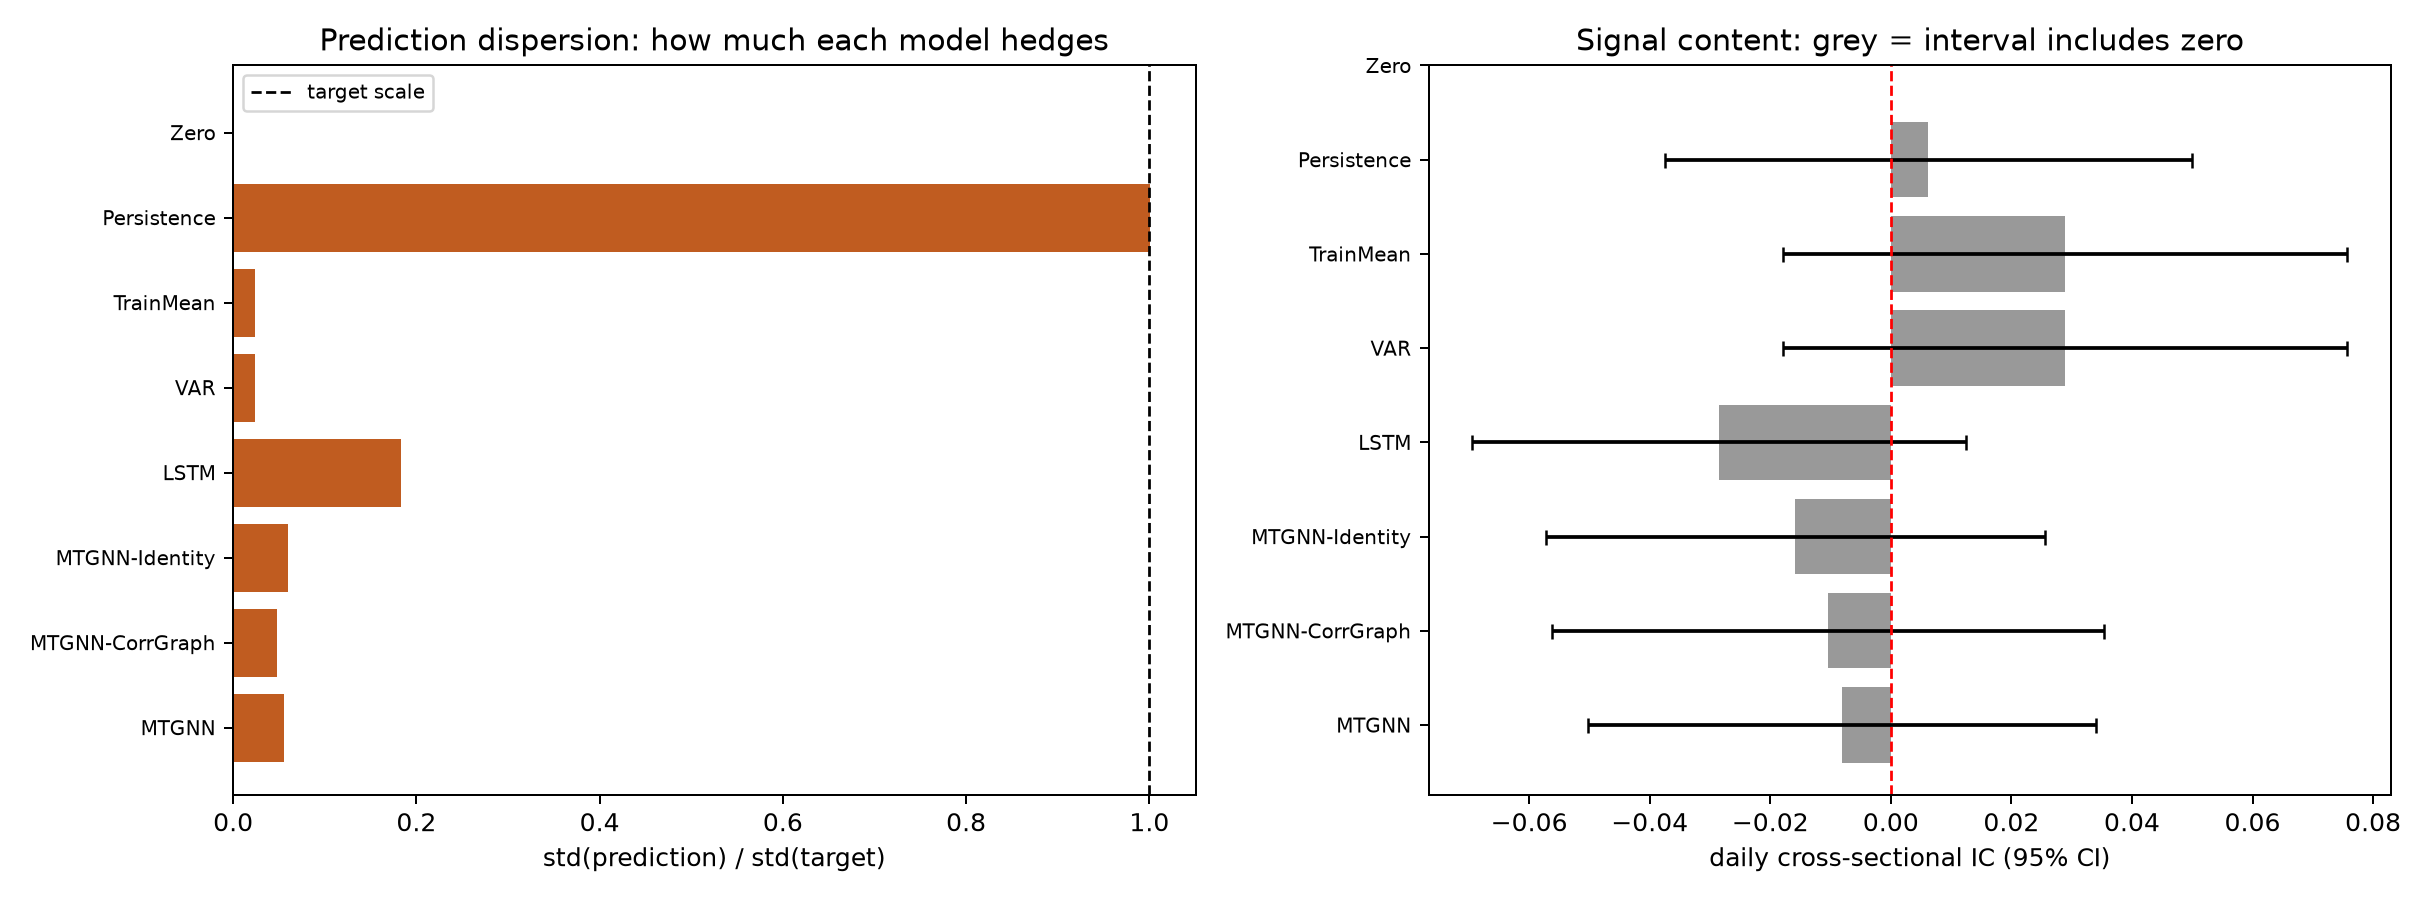
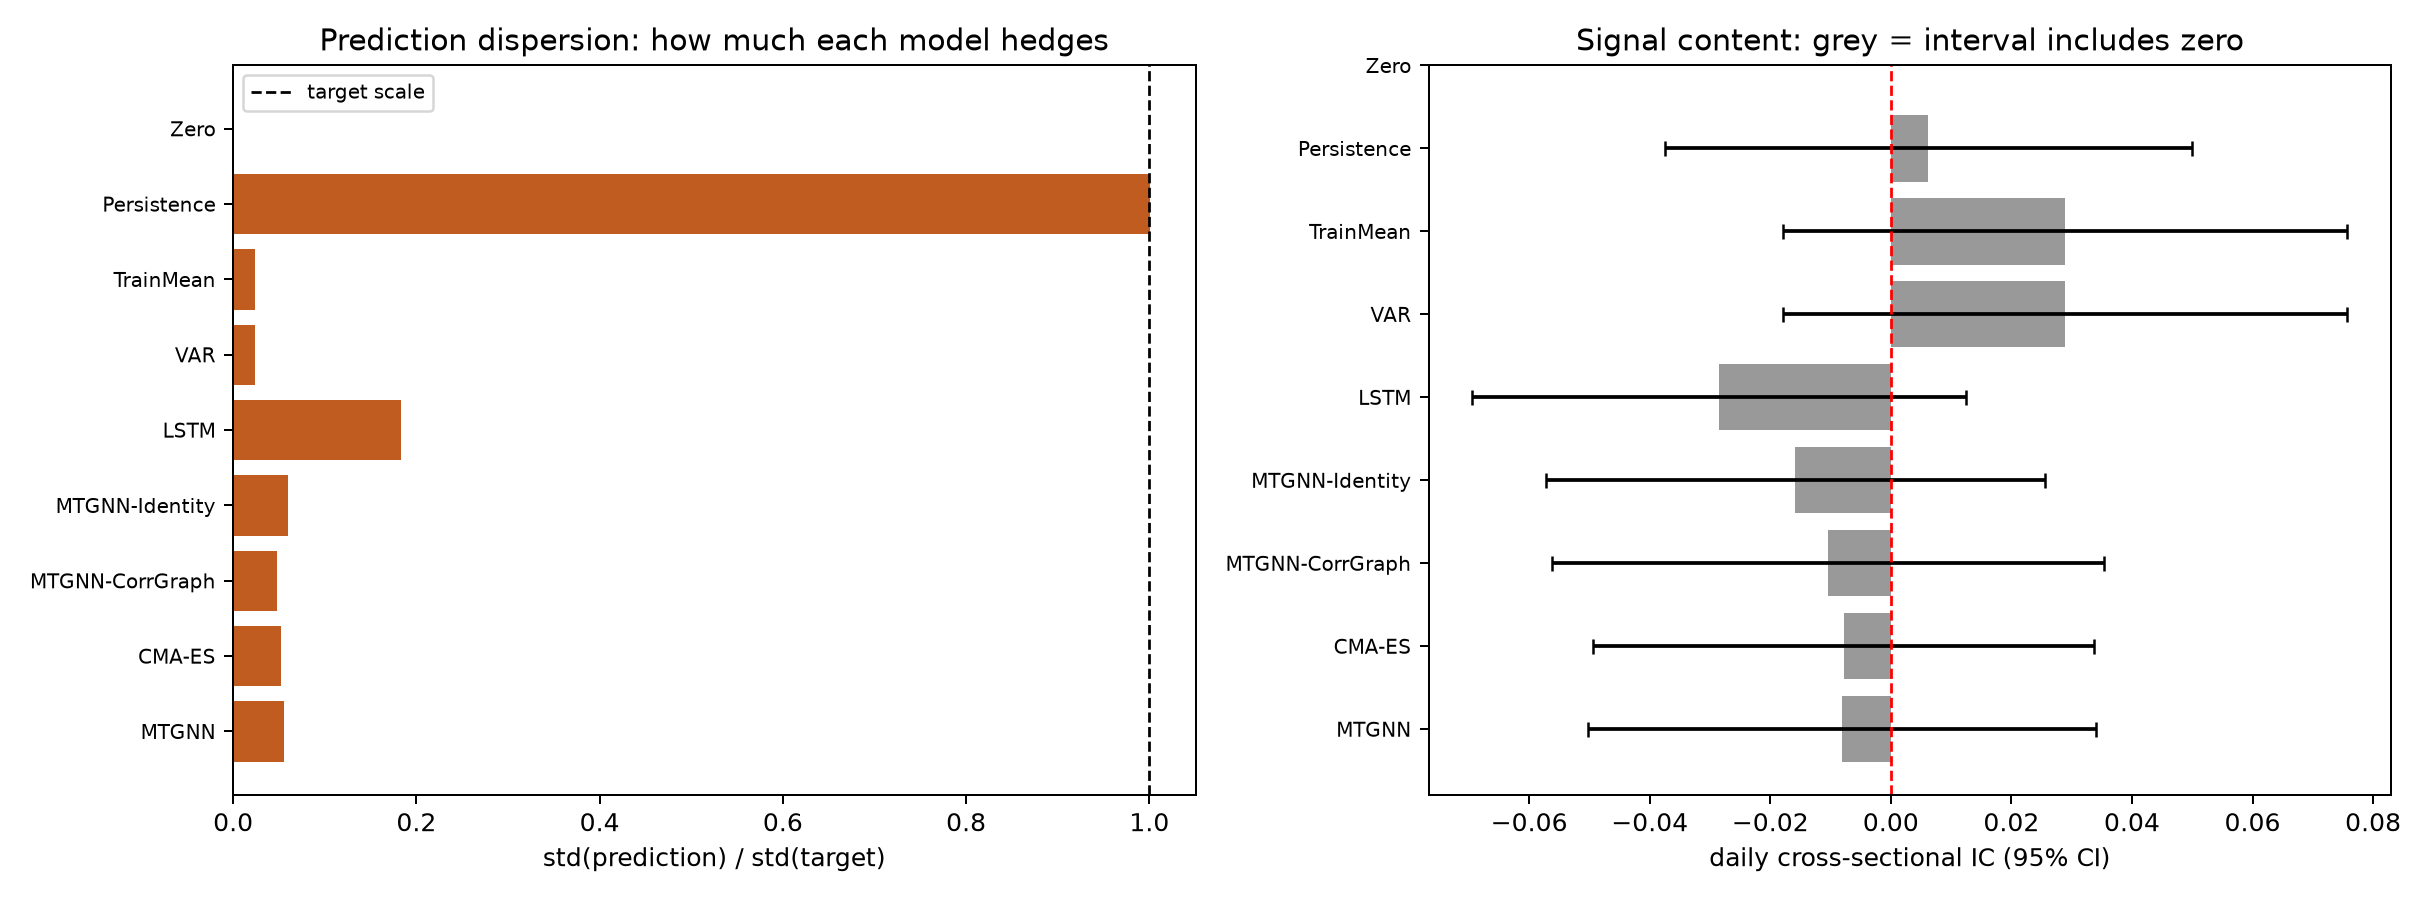
Flag degenerate rankings in the portfolio backtest
The zero forecast posted the best net Sharpe (1.69), which is an
artifact: with identical predictions across companies the long-short
ranking is decided by argsort tie-breaking, so the basket is fixed by
data-file ordering and never changes. Reporting that number without the
caveat would invite exactly the misreading the naive baselines exist to
prevent.

diff --git a/scripts/portfolio_backtest.py b/scripts/portfolio_backtest.py
@@ -53,6 +53,18 @@ def max_drawdown(cumulative: np.ndarray) -> float:
     return float(np.min(cumulative - peak))
 
 
+def is_degenerate(y_pred) -> bool:
+    """True when the forecast carries no cross-sectional ranking information.
+
+    If predictions are identical across companies on a given day, the long-short
+    ranking is decided entirely by argsort tie-breaking, i.e. by the order
+    companies happen to appear in the data file. The resulting basket is a fixed
+    arbitrary bet rather than a strategy, so its Sharpe ratio says nothing about
+    the forecast and must not be read as performance.
+    """
+    return bool(np.allclose(y_pred.std(axis=1), 0.0))
+
+
 def evaluate_strategy(y_true, y_pred, label):
     gross, weights = long_short_returns(y_true, y_pred, cost_bps=0.0)
     net, _ = long_short_returns(y_true, y_pred, cost_bps=COST_PER_SIDE_BPS)
@@ -71,6 +83,8 @@ def evaluate_strategy(y_true, y_pred, label):
         "hit_rate": float((gross > 0).mean()),
         "avg_daily_turnover": avg_turnover,
         "n_days": int(len(gross)),
+        "degenerate_ranking": is_degenerate(y_pred),
+        "constant_basket": bool(np.allclose(weights, weights[0])),
     }
     return out, net
 
@@ -87,21 +101,28 @@ def main():
     print(f"Long-short top-{TOP_K}/bottom-{TOP_K}, dollar-neutral, "
           f"daily rebalance, {COST_PER_SIDE_BPS:.0f} bps per side\n")
     print(f"{'Model':20s} {'Sharpe(gross)':>14s} {'Sharpe(net)':>12s} "
-          f"{'CumRet(net)':>12s} {'MaxDD':>9s} {'Turnover':>9s}")
+          f"{'CumRet(net)':>12s} {'MaxDD':>9s} {'Turnover':>9s}  note")
 
     rows, curves = [], {}
     for n in names:
         y_true, y_pred = pooled(models, n)
-        if np.allclose(y_pred, y_pred[0]):
-            # A constant forecast produces a fixed basket: the ranking never
-            # changes, so this is a static bet, not a strategy. Still reported.
-            pass
         row, net = evaluate_strategy(y_true, y_pred, n)
         rows.append(row)
         curves[n] = np.cumsum(net)
+        note = ""
+        if row["degenerate_ranking"]:
+            note = "DEGENERATE: ranking is argsort tie-break, not a forecast"
+        elif row["constant_basket"]:
+            note = "constant basket (static bet)"
         print(f"{n:20s} {row['gross_sharpe']:>14.3f} {row['net_sharpe']:>12.3f} "
               f"{row['net_cumulative_return']:>12.4f} {row['max_drawdown_net']:>9.4f} "
-              f"{row['avg_daily_turnover']:>9.3f}")
+              f"{row['avg_daily_turnover']:>9.3f}  {note}")
+
+    degenerate = [r["model"] for r in rows if r["degenerate_ranking"]]
+    if degenerate:
+        print(f"\nWARNING: {degenerate} produce identical predictions across "
+              "companies, so their Sharpe ratios reflect an arbitrary fixed basket "
+              "chosen by data-file ordering. Do not interpret them as skill.")
 
     figdir = Path("report/figures")
     figdir.mkdir(parents=True, exist_ok=True)
